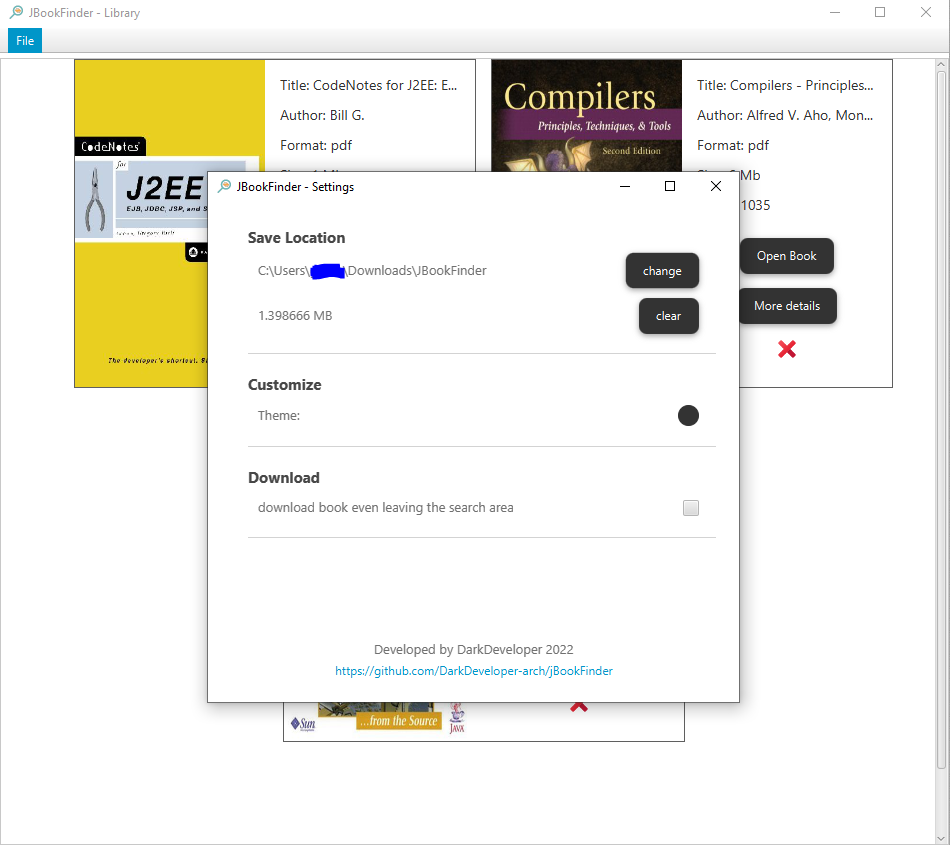
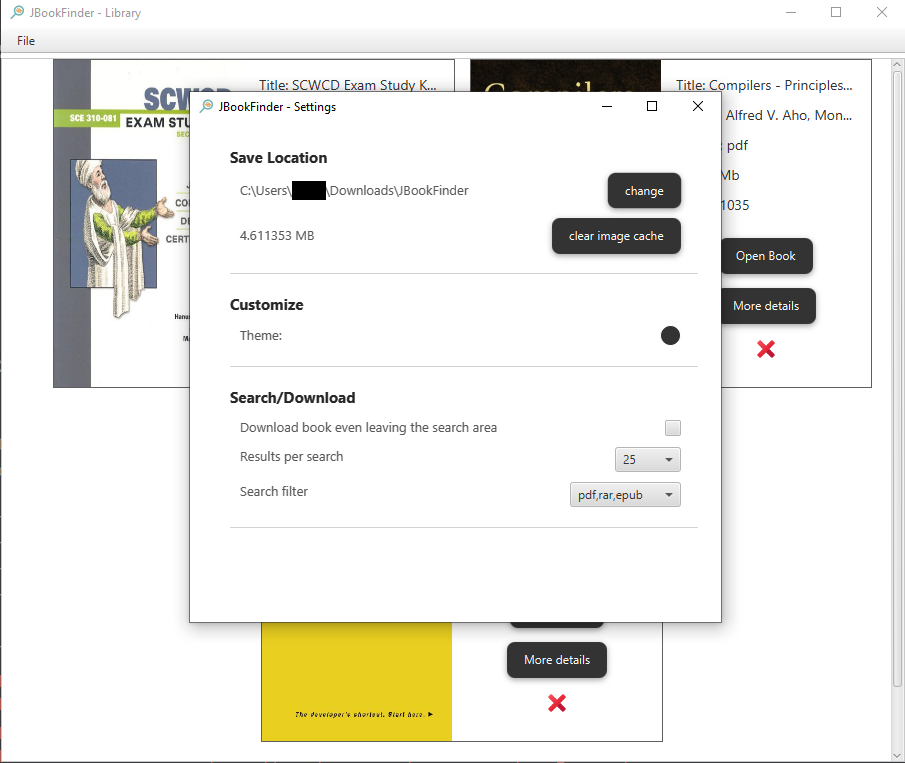
-Update README.md

Changed region(s): [[0.0, 0.0, 1.0, 1.0], [0.2475, 0.633, 0.3403, 0.6632], [0.7116, 0.4823, 0.7425, 0.5125]]

diff --git a/README.md b/README.md
@@ -25,7 +25,9 @@ Downloaded books are managed by the application, you can go to the library secti
 
 - If you need to change save location of book, you can go the settings and simply change it. once you have changed, books will be moved to that location.
 - If you need to clear books cover which you have searched, you can clear these caches
-- Also you can change theme(light/dark)
-- By default when you are downloading a book, if you search another book or leave the downloading section, downloading will stop, you can change this behaviour.
+- Also, you can change theme(light/dark)
+- By default, when you are downloading a book, if you search another book or leave the downloading section, downloading will stop, you can change this behaviour.
+- You can choose how many result to be shown in a single search
+- You can filter searching by book's format
 
 ![settings](imgs/settings.png "settings page")
